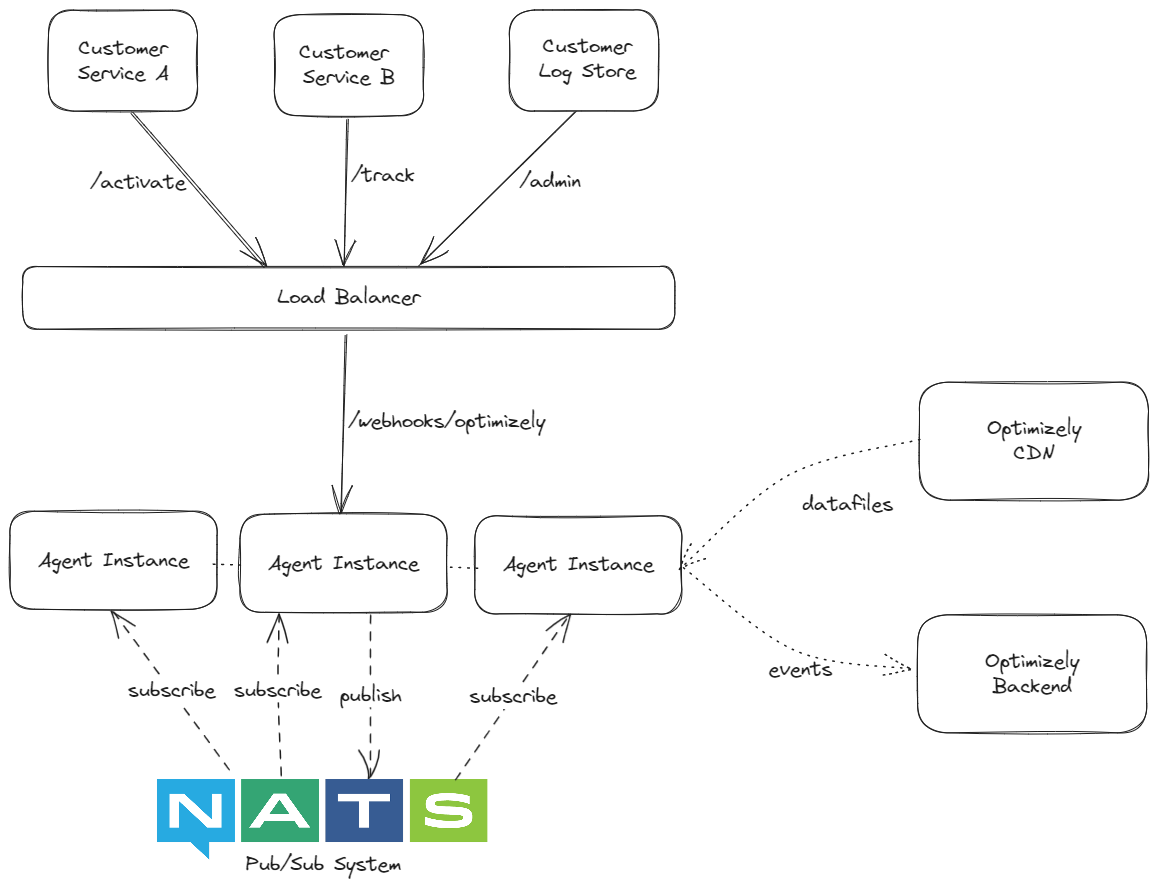
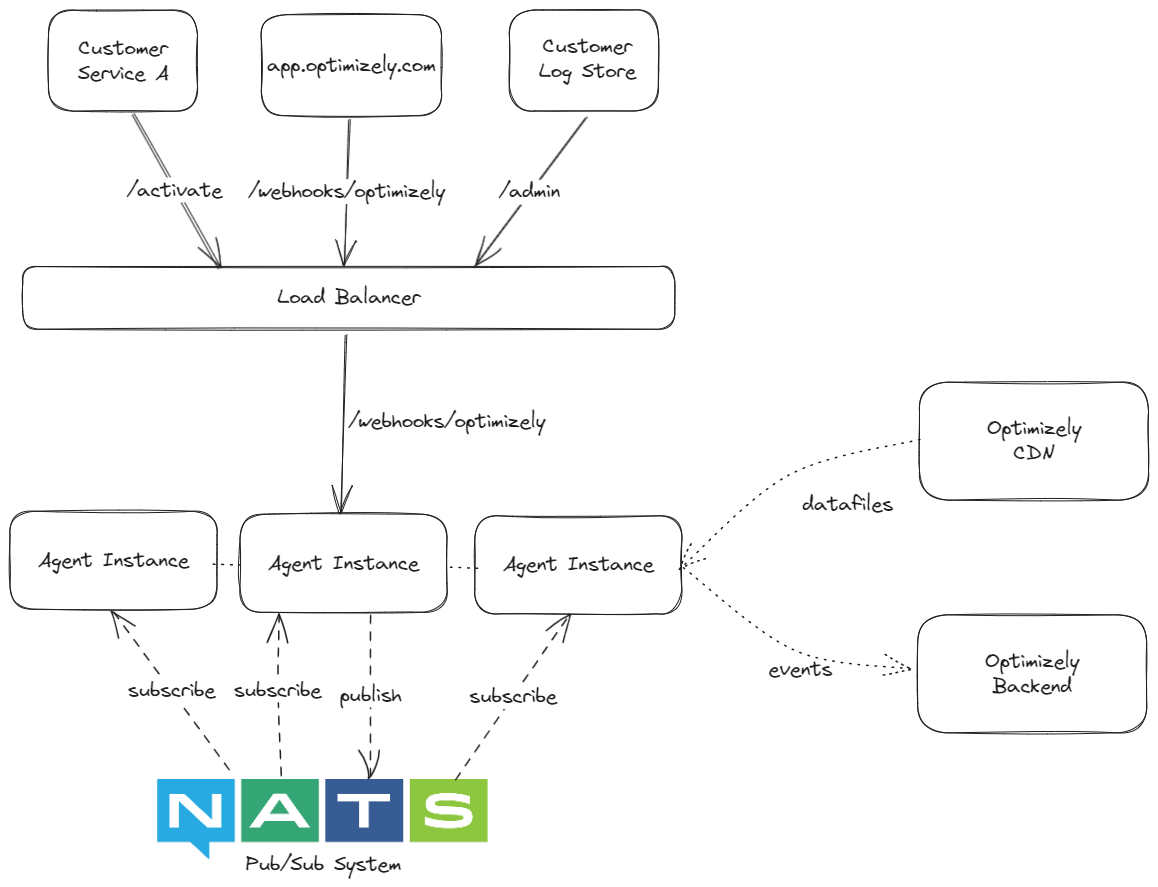
miscellaneous update

diff --git a/main.go b/main.go
@@ -1,10 +1,9 @@
-// this starts the NATS server
 package main
 
 import (
 	"crypto/rand"
 	"fmt"
-	"io/ioutil"
+	"io"
 	"net/http"
 	"os"
 	"time"
@@ -13,6 +12,7 @@ import (
 	"github.com/go-chi/chi/v5/middleware"
 	"github.com/nats-io/nats.go"
 	"github.com/pkg/errors"
+
 )
 
 // DatafileURLTemplate is used to construct the endpoint for retrieving regular datafile from the CDN
@@ -63,7 +63,6 @@ func webhook(w http.ResponseWriter, r *http.Request) {
 		return
 	}
 	w.Write([]byte("received updated datafile notification"))
-	return
 }
 
 func downloadDatafile() ([]byte, error) {
@@ -74,12 +73,12 @@ func downloadDatafile() ([]byte, error) {
 		return nil, err
 	}
 
-	datafile, err := ioutil.ReadAll(resp.Body)
+	datafile, err := io.ReadAll(resp.Body)
 	if err != nil {
 		return nil, err
 	}
 	if resp.StatusCode != http.StatusOK {
-		return nil, fmt.Errorf("failed to fetch datafile, statue code: ", resp.StatusCode)
+		return nil, fmt.Errorf("failed to fetch datafile, statue code: %d", resp.StatusCode)
 	}
 	return datafile, nil
 }

diff --git a/README.md b/README.md
@@ -12,7 +12,11 @@ In this POC, eventual consistency is improved to a significant level using a pub
 
 ### Architecture
 
+#### Full Architecture:
 ![arch](/static/arch.png)
+
+#### Pub/Sub Architecture:
+![pub-sub-arch](/static/pub-sub-arch.png)
 
 ### Workflow
 1. When multiple agent instances are running in a distributed system like Kubernetes, user can able to register webhook in app.optimizely.com to get updated datafile notification.
